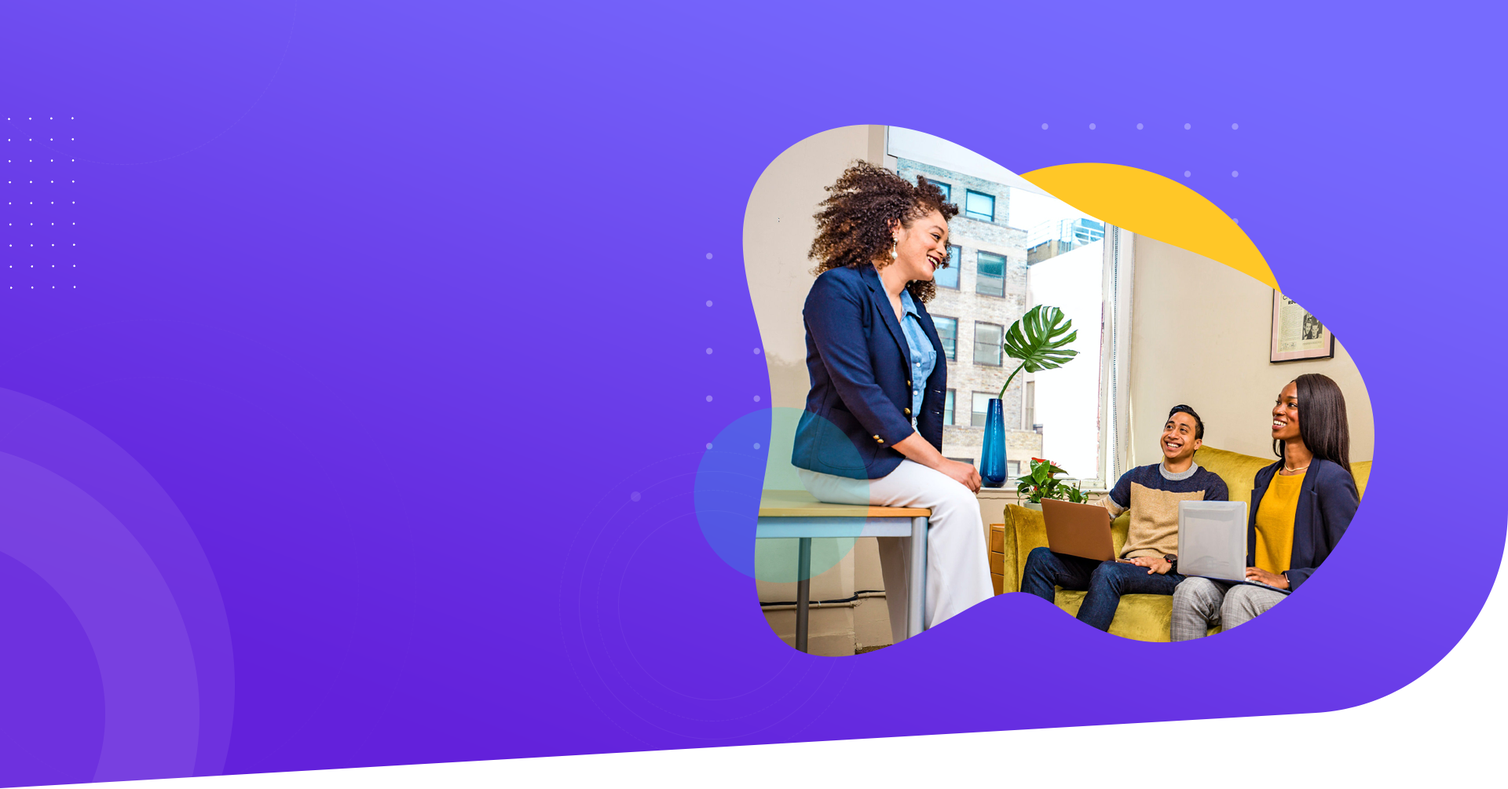
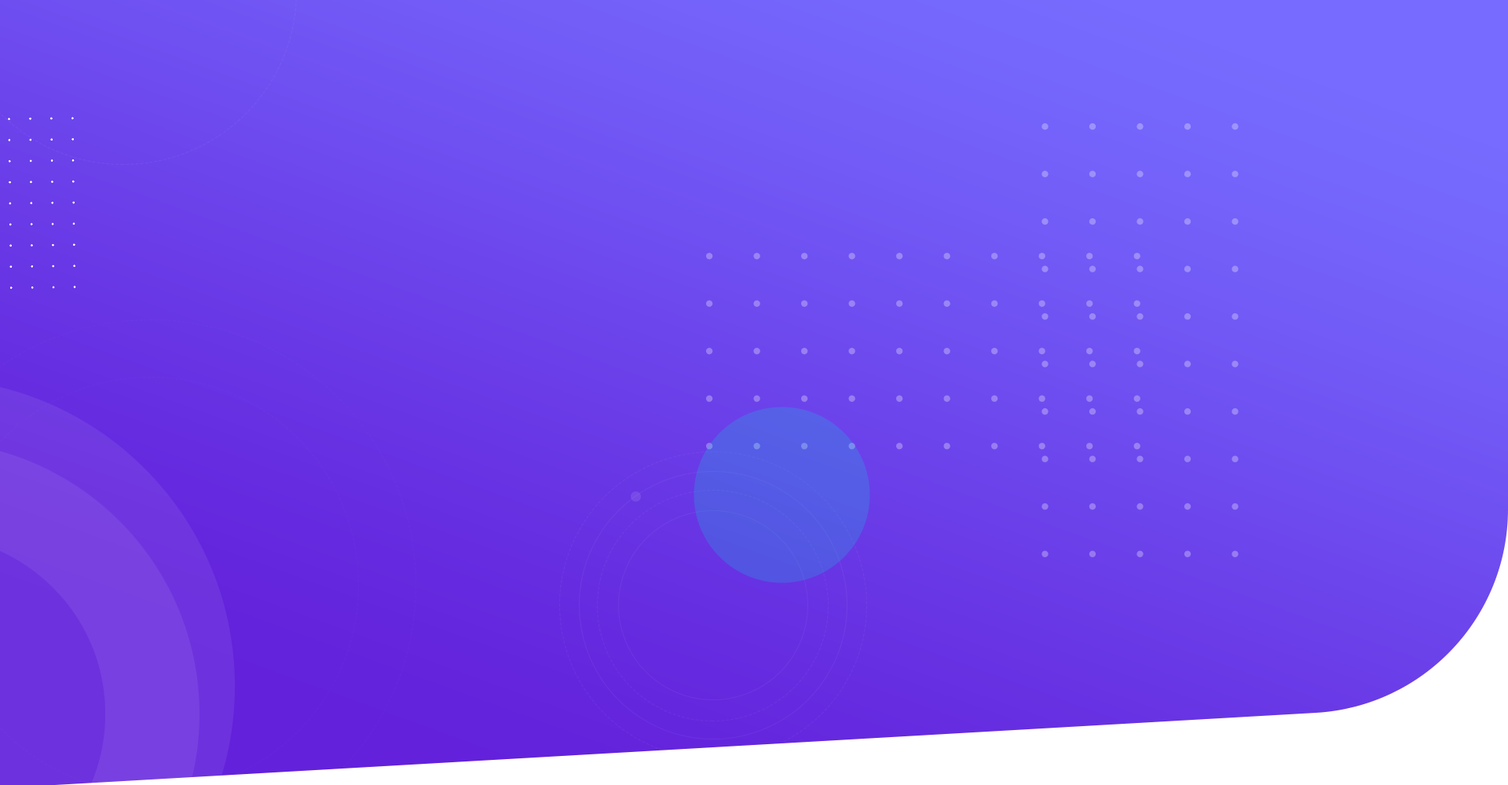
Added smal adaptive

diff --git a/css/style.min.css b/css/style.min.css
@@ -1,1 +1,1 @@
-@charset "UTF-8";*{padding:0;margin:0;border:0}*,:after,:before{-webkit-box-sizing:border-box;box-sizing:border-box}:active,:focus{outline:0}a:active,a:focus{outline:0}aside,footer,header,nav{display:block}body,html{height:100%;width:100%;font-size:100%;line-height:1;font-size:14px;-ms-text-size-adjust:100%;-moz-text-size-adjust:100%;-webkit-text-size-adjust:100%}button,input,textarea{font-family:inherit}input::-ms-clear{display:none}button{cursor:pointer}button::-moz-focus-inner{padding:0;border:0}a,a:visited{text-decoration:none}a:hover{text-decoration:none}ul li{list-style:none}img{vertical-align:top}h1,h2,h3,h4,h5,h6{font-size:inherit;font-weight:inherit}.wrapper-footer{width:1920px;height:-webkit-fit-content;height:-moz-fit-content;height:fit-content;margin:0 auto}.container-footer{display:inline-block;width:1445px;height:45px;margin:205px auto 0 237px}.navigation-footer{color:#fff;width:570px;display:-webkit-inline-box;display:-ms-inline-flexbox;display:inline-flex;-webkit-box-orient:horizontal;-webkit-box-direction:normal;-ms-flex-direction:row;flex-direction:row;-webkit-box-pack:center;-ms-flex-pack:center;justify-content:center;-webkit-box-align:center;-ms-flex-align:center;align-items:center;-webkit-box-pack:justify;-ms-flex-pack:justify;justify-content:space-between;margin-left:290px;font-family:Nexa;font-size:19px;font-weight:400}.icons{display:-webkit-inline-box;display:-ms-inline-flexbox;display:inline-flex;-webkit-box-orient:horizontal;-webkit-box-direction:normal;-ms-flex-direction:row;flex-direction:row;-webkit-box-pack:justify;-ms-flex-pack:justify;justify-content:space-between;width:200px;height:45px;margin-left:220px}.icons__icon:hover{background-color:#00dadc}.icons__icon{display:-webkit-box;display:-ms-flexbox;display:flex;-webkit-box-pack:center;-ms-flex-pack:center;justify-content:center;-webkit-box-align:center;-ms-flex-align:center;align-items:center;width:45px;height:45px;border-radius:50%;font-size:20px;color:#fff;text-align:center;background-color:#6f7ffe}.copyright{width:-webkit-fit-content;width:-moz-fit-content;width:fit-content;margin:85px auto 0 auto;color:#fff}.no-webp .footer{background-image:url(../img/footer/fone.png)}.footer{width:1920px;height:390px}.no-webp .head-wrapper{background-image:url(@img/header/Fone.png)}.head-wrapper{width:1920px;height:1000px;background-size:1920px;margin:0 auto}.cover-nav{width:1450px;margin:40px 0 0 235px;display:-webkit-inline-box;display:-ms-inline-flexbox;display:inline-flex;-webkit-box-orient:horizontal;-webkit-box-direction:normal;-ms-flex-direction:row;flex-direction:row}.main-head-block__logo{font-size:45px;font-family:Gilroy;font-weight:700;display:inline-block;color:#fff}.main-head-block__navigation{color:#fff;width:440px;display:-webkit-inline-box;display:-ms-inline-flexbox;display:inline-flex;-webkit-box-orient:horizontal;-webkit-box-direction:normal;-ms-flex-direction:row;flex-direction:row;-webkit-box-pack:center;-ms-flex-pack:center;justify-content:center;-webkit-box-align:center;-ms-flex-align:center;align-items:center;-webkit-box-pack:justify;-ms-flex-pack:justify;justify-content:space-between;margin-left:110px}.main-head-block__elements{font-family:Nexa;font-size:19px;font-weight:300}.main-head-block__contact{width:170px;height:65px;display:inline-block;background-color:#fff;color:#6426dd;border-radius:30vw;border:none;font-size:17px;font-weight:800;margin-left:auto}.second-main-block{width:1535px;height:380px;margin:74px auto 0 235px;display:-webkit-box;display:-ms-flexbox;display:flex;-webkit-box-orient:horizontal;-webkit-box-direction:normal;-ms-flex-direction:row;flex-direction:row;-webkit-box-pack:justify;-ms-flex-pack:justify;justify-content:space-between}.second-main-block__column{-webkit-box-flex:0;-ms-flex:0 1 50%;flex:0 1 50%;display:inline-block}.second-main-block__column img{width:100%;height:100%}.second-main-block__title{font-size:88px;line-height:80px;font-family:Nexa;font-weight:800;color:#fff;display:block;margin-top:175px}.second-main-block__subtitle{margin:30px 0 0 0;font-size:20px;line-height:36px;font-size:Nexa;font-weight:400;color:#939292;font-style:italic}.second-main-block__button:active{background-color:#00dadc;-webkit-transition:color ease .5s;-o-transition:color ease .5s;transition:color ease .5s}.second-main-block__button{width:275px;height:75px;border-radius:30vw;margin-top:50px;background-color:#ffc727;font-family:Nexa;font-size:18px;font-weight:700}.second-main-block__second img{width:100%;height:100%}@font-face{font-family:Gilroy;font-display:swap;src:url(../fonts/Gilroy-Bold.woff2) format("woff2"),url(../fonts/Gilroy-Bold.woff) format("woff");font-weight:700;font-style:normal}@font-face{font-family:Nexa;font-display:swap;src:url(../fonts/Nexa-Bold.woff2) format("woff2"),url(../fonts/Nexa-Bold.woff) format("woff");font-weight:700;font-style:normal}@font-face{font-family:Nexa;font-display:swap;src:url(../fonts/Nexa-Regular.woff2) format("woff2"),url(../fonts/Nexa-Regular.woff) format("woff");font-weight:400;font-style:normal}@font-face{font-family:Nexa;font-display:swap;src:url(../fonts/Nexa-XBold.woff2) format("woff2"),url(../fonts/Nexa-XBold.woff) format("woff");font-weight:400;font-style:normal}.main{height:2125px;width:1920px;margin:0 auto}.no-webp .main-first-wrapper{background-image:url(../img/main/Fone.png)}.main-first-wrapper{width:1920px;height:1025px}.main-first{width:1450px;height:1025px;display:-webkit-inline-box;display:-ms-inline-flexbox;display:inline-flex;margin:160px auto 0 160px}.main-first__img{width:700px;height:830px}.main-first__column:nth-child(even){width:590px}.main-first__column{width:844px}.about-two{margin:280px 0 0 0}.about{margin:150px 0 0 0}.about__preview{color:#6422db;font-family:Nexa;font-size:30px;font-weight:400;letter-spacing:10px;text-transform:uppercase}.about__title{margin:45px 0 0 0;font-family:Nexa;font-size:70px;font-weight:800;line-height:66px}.about__subtitle{margin:55px 0 0 0;font-family:Nexa;font-size:20px;font-weight:400;line-height:36px}.about__button:active{background-color:#00dadc;-webkit-transition:color ease .5s;-o-transition:color ease .5s;transition:color ease .5s}.about__button{width:280px;height:70px;border-radius:30vw;margin:55px 0 0 0;background-color:#ffc727;font-family:Nexa;font-size:18px;font-weight:700}.no-webp .main-second-wrapper{background-image:url(../img/main/Fone-two.png)}.main-second-wrapper{width:1920px;height:1100px;background-size:1920px 100%}.main-second{width:1430px;height:870px;display:-webkit-box;display:-ms-flexbox;display:flex;margin:0 0 0 250px}.main-second__column:nth-child(even){width:680px}.main-second__column{display:-webkit-box;display:-ms-flexbox;display:flex;width:760px}.main-second__flex{height:750px;width:300px;-webkit-box-flex:0;-ms-flex:0 0 50%;flex:0 0 50%;margin:230px 0 0 0}.main-second__flex_margin{margin:115px 0 0 0}.element:nth-child(odd){margin-bottom:40px}.element{width:300px;height:350px;background-color:#fff}.elem__icon{width:100px;height:90px;margin:30px 0 0 35px;display:inline-block}.elem__title{margin-top:45px;margin-left:35px;font-size:24px;font-weight:700}.elem__subtitle{margin-top:35px;margin-left:35px;font-size:18px;font-weight:400;line-height:32px}.round-yellow{width:215px;height:215px;position:absolute;left:0;top:-70px}.reviwes-wrapper{position:relative;height:2020px;width:1920px;margin:0 auto;background-color:#fcfcff}.no-webp .reviews{background-image:url(../img/main/rating/fone.png)}.reviews{width:1920px;height:1090px;margin:0 auto;text-align:center}.reviews__review{width:300px;font-family:Nexa;font-size:30px;letter-spacing:7px;font-weight:300;color:#bfbfbf;margin:145px auto 0 auto;display:inline-block}.reviews__title{width:575px;font-size:70px;font-weight:700;margin:15px auto 0 auto;color:#fff;letter-spacing:3px}.reviews__coma img{width:100%;height:100%}.reviews__coma{width:240px;height:180px;margin:20px auto 0 auto;display:inline-block;z-index:4}.reviews__subtitle{z-index:5;font-size:24px;font-weight:800;line-height:46px;position:relative;bottom:120px;font-family:Nexa}.reviews__cover{position:relative;width:735px;width:735px;height:440px;margin:0 auto 0 570px}.reviews__shadow-one{position:absolute;z-index:2;width:710px;height:470px;border-radius:20px;background-color:#895fe9;left:calc(50% - 355px)}.reviews__shadow-two{position:absolute;z-index:1;width:680px;height:490px;border-radius:20px;background-color:#8454e5;left:calc(50% - 340px);opacity:.5}.reviews__block{position:relative;width:735px;height:440px;background-color:#fff;border-radius:25px;margin:83px auto 0 auto;opacity:.98;z-index:5}.reviews__name-user{font-family:Nexa;font-weight:800;font-size:24px;color:#6427de;margin-top:-85px}.rating{font-size:35px;display:inline-block;position:relative;margin-top:3px}.rating__items{position:absolute;width:100;height:100%;top:0;left:0;display:-webkit-box;display:-ms-flexbox;display:flex;-webkit-box-orient:horizontal;-webkit-box-direction:reverse;-ms-flex-direction:row-reverse;flex-direction:row-reverse;overflow:hidden}.rating__item:checked,.rating__item:checked~.rating__lable{color:#fd0}.rating__item{position:absolute;width:0%;height:0%;opacity:0;visibility:hidden;top:0;left:0}.rating__lable{-webkit-box-flex:0;-ms-flex:0 0 20%;flex:0 0 20%;height:100%;cursor:pointer;color:#000}.rating__lable:checked~.rating__lable:hover,.rating__lable:hover,.rating__lable:hover~.rating__lable{color:#ff0}.rating__lable::before{content:"★";display:block;-webkit-transition:color .3s ease 0s;-o-transition:color .3s ease 0s;transition:color .3s ease 0s}.flex{width:130px;display:-webkit-box;display:-ms-flexbox;display:flex;-webkit-box-orient:horizontal;-webkit-box-direction:normal;-ms-flex-direction:row;flex-direction:row;-webkit-box-pack:justify;-ms-flex-pack:justify;justify-content:space-between;margin:40px auto 0 auto}.flex__arrow{display:-webkit-box;display:-ms-flexbox;display:flex;-webkit-box-orient:vertical;-webkit-box-direction:normal;-ms-flex-direction:column;flex-direction:column;-webkit-box-pack:center;-ms-flex-pack:center;justify-content:center;width:50px;height:50px;background-color:transparent;border-radius:50%;border:solid 3px #737287;font-size:18px;text-align:center}.flex__arrow:active{background-color:#00dadc;cursor:pointer;border:none}.flex__arrow:active .flex__arrow_font{color:#fff;cursor:pointer}.flex__arrow_font{color:#000}.flex__arrow:hover{cursor:pointer}.svg-arrow-left-dims{cursor:pointer}.rating::before{content:"★★★★★";display:block}.wrapper-contact{width:1920px;height:900px}.about-three{width:760px;margin-top:190px}.contact{position:relative;width:1340px;height:680px;margin:100px auto 0 auto;display:-webkit-box;display:-ms-flexbox;display:flex;-webkit-box-orient:horizontal;-webkit-box-direction:normal;-ms-flex-direction:row;flex-direction:row;-webkit-box-pack:justify;-ms-flex-pack:justify;justify-content:space-between}.round-blue{position:absolute;top:-140px;right:-128px;width:215px;height:215px;z-index:5}.fill-form{width:560px;height:690px;border-radius:20px;position:relative;display:-webkit-box;display:-ms-flexbox;display:flex;-webkit-box-orient:vertical;-webkit-box-direction:normal;-ms-flex-direction:column;flex-direction:column;background-color:#fff;-webkit-box-shadow:inset 0 0 0 0 #d1d1d1,0 10px 50px rgba(150,188,255,.1803921569);box-shadow:inset 0 0 0 0 #d1d1d1,0 10px 50px rgba(150,188,255,.1803921569)}.fill-form__name{width:490px;height:80px;border-radius:5px;border:1px solid #d1d1d1;color:#6422db;font-family:Nexa;font-size:20px;font-weight:700;letter-spacing:1px;margin:75px 0 0 35px;padding:40px}.fill-form__email{width:490px;height:80px;border-radius:5px;border:1px solid #d1d1d1;padding-left:40px;font-family:Nexa;font-size:20px;font-weight:700;letter-spacing:1px;margin:20px 0 0 35px}.fill-form__message{width:490px;height:200px;border-radius:5px;border:1px solid #d1d1d1;padding-left:40px;font-family:Nexa;font-size:20px;font-weight:700;letter-spacing:1px;margin:20px 0 0 35px}.fill-form__button{width:280px;height:70px;border-radius:30vw;margin:50px 0 0 45px;background-color:#ffc727;font-family:Nexa;font-size:18px;font-weight:700;text-transform:uppercase;cursor:pointer}.fill-form__lable{width:105px;height:-webkit-fit-content;height:-moz-fit-content;height:fit-content;background-color:#fff;position:absolute;top:65px;left:90px;color:#c1c1c1;font-family:Nexa;font-size:19px;text-align:center}::-webkit-input-placeholder{position:absolute;left:40px;top:30px;color:#c1c1c1}::-moz-placeholder{position:absolute;left:40px;top:30px;color:#c1c1c1}:-moz-placeholder{position:absolute;left:40px;top:30px;color:#c1c1c1}:-ms-input-placeholder{position:absolute;left:40px;top:30px;color:#c1c1c1}body{overflow-x:hidden}*{font-family:lato}.no-webp .head-wrapper{background-image:url(../img/header/Fone.png)}.head-wrapper{width:1920px;height:1000px;background-size:1920px;margin:0 auto}body{color:#000;font-size:14px}body._lock{overflow:hidden}.wrapper{width:100%;min-height:100%;overflow:hidden;display:-webkit-box;display:-ms-flexbox;display:flex;-webkit-box-orient:vertical;-webkit-box-direction:normal;-ms-flex-direction:column;flex-direction:column}._container{max-width:320pxpx;margin:0 auto}@media (max-width:991.98px){._container{max-width:750px}}@media (max-width:767.98px){._container{max-width:none;padding:0 10px}}@media (max-width:332px){._container{max-width:970px}}.webp .footer{background-image:url(../img/footer/fone.webp)}.webp .head-wrapper{background-image:url(@img/header/Fone.webp)}.webp .main-first-wrapper{background-image:url(../img/main/Fone.webp)}.webp .main-second-wrapper{background-image:url(../img/main/Fone-two.webp)}.webp .reviews{background-image:url(../img/main/rating/fone.webp)}.webp .head-wrapper{background-image:url(../img/header/Fone.webp)}
+@charset "UTF-8";body{width:100%;color:#000;font-size:14px}body._lock{overflow:hidden}.wrapper{width:100%;min-height:100%;overflow:hidden;display:-webkit-box;display:-ms-flexbox;display:flex;-webkit-box-orient:vertical;-webkit-box-direction:normal;-ms-flex-direction:column;flex-direction:column}._container{max-width:1920pxpx;margin:0 auto}*{padding:0;margin:0;border:0}*,:after,:before{-webkit-box-sizing:border-box;box-sizing:border-box}:active,:focus{outline:0}a:active,a:focus{outline:0}aside,footer,header,nav{display:block}body,html{height:100%;width:100%;font-size:100%;line-height:1;font-size:14px;-ms-text-size-adjust:100%;-moz-text-size-adjust:100%;-webkit-text-size-adjust:100%}button,input,textarea{font-family:inherit}input::-ms-clear{display:none}button{cursor:pointer}button::-moz-focus-inner{padding:0;border:0}a,a:visited{text-decoration:none}a:hover{text-decoration:none}ul li{list-style:none}img{vertical-align:top}h1,h2,h3,h4,h5,h6{font-size:inherit;font-weight:inherit}.wrapper-footer{width:1920px;height:-webkit-fit-content;height:-moz-fit-content;height:fit-content;margin:0 auto}.container-footer{display:inline-block;width:88.5416666667%;height:45px;margin:205px auto 0 12.5%}.navigation-footer{color:#fff;width:570px;display:-webkit-inline-box;display:-ms-inline-flexbox;display:inline-flex;-webkit-box-orient:horizontal;-webkit-box-direction:normal;-ms-flex-direction:row;flex-direction:row;-webkit-box-pack:center;-ms-flex-pack:center;justify-content:center;-webkit-box-align:center;-ms-flex-align:center;align-items:center;-webkit-box-pack:justify;-ms-flex-pack:justify;justify-content:space-between;margin-left:15.1041666667%;font-family:Nexa;font-size:19px;font-weight:400}.icons{display:-webkit-inline-box;display:-ms-inline-flexbox;display:inline-flex;-webkit-box-orient:horizontal;-webkit-box-direction:normal;-ms-flex-direction:row;flex-direction:row;-webkit-box-pack:justify;-ms-flex-pack:justify;justify-content:space-between;width:200px;height:45px;margin-left:12.5%}.icons__icon:hover{background-color:#00dadc}.icons__icon{display:-webkit-box;display:-ms-flexbox;display:flex;-webkit-box-pack:center;-ms-flex-pack:center;justify-content:center;-webkit-box-align:center;-ms-flex-align:center;align-items:center;width:45px;height:45px;border-radius:50%;font-size:20px;color:#fff;text-align:center;background-color:#6f7ffe}.copyright{width:-webkit-fit-content;width:-moz-fit-content;width:fit-content;margin:85px auto 0 auto;color:#fff}.no-webp .footer{background-image:url(../img/footer/fone.png)}.footer{max-width:1920px;height:390px}.head-wrapper{position:relative;width:1920px;height:1000px;top:-40px;margin:0 auto}.wrapper-background-img{width:1920px;height:1000px;position:absolute;top:0;left:0;z-index:1;margin:0 auto}.wrapper-background-img img{width:100%;height:100%}.main-head-block{position:relative;z-index:3;width:79.1666666667%;height:810px;margin:40px 0 0 12.5%}.main-head-block__logo{font-size:45px;font-family:Gilroy;font-weight:700;display:inline-block;color:#fff}.main-head-block__navigation{color:#fff;width:440px;display:-webkit-inline-box;display:-ms-inline-flexbox;display:inline-flex;-webkit-box-orient:horizontal;-webkit-box-direction:normal;-ms-flex-direction:row;flex-direction:row;-webkit-box-pack:center;-ms-flex-pack:center;justify-content:center;-webkit-box-align:center;-ms-flex-align:center;align-items:center;-webkit-box-pack:justify;-ms-flex-pack:justify;justify-content:space-between;margin-left:110px}.main-head-block__elements{font-family:Nexa;font-size:19px;font-weight:300}.main-head-block__contact:hover{cursor:pointer}.main-head-block__contact{width:170px;height:65px;display:inline-block;background-color:#fff;color:#6426dd;border-radius:30vw;border:none;font-size:17px;font-weight:800;margin-left:auto}.cover-nav{width:1450px;display:-webkit-inline-box;display:-ms-inline-flexbox;display:inline-flex;-webkit-box-orient:horizontal;-webkit-box-direction:normal;-ms-flex-direction:row;flex-direction:row;margin-top:40px}.second-main-block{margin:70px 0 0 100px;height:580px;display:-webkit-box;display:-ms-flexbox;display:flex;-webkit-box-orient:horizontal;-webkit-box-direction:normal;-ms-flex-direction:row;flex-direction:row;-webkit-box-pack:justify;-ms-flex-pack:justify;justify-content:space-between}.second-main-block__title{font-size:88px;line-height:80px;font-family:Nexa;font-weight:800;color:#fff;display:block}.second-main-block__subtitle{margin:30px 0 0 0;font-size:20px;line-height:36px;font-size:Nexa;font-weight:400;color:#939292;font-style:italic}.second-main-block__button:active{background-color:#00dadc;-webkit-transition:color ease .5s;-o-transition:color ease .5s;transition:color ease .5s}.second-main-block__button{width:275px;height:75px;border-radius:30vw;margin-top:50px;background-color:#ffc727;font-family:Nexa;font-size:18px;font-weight:700}.second-main-block__column{width:38.2585751979%;height:100%}.second-main-block__column-two img{width:100%;height:100%}.second-main-block__column-two{width:57.3878627968%;height:100%}@font-face{font-family:Gilroy;font-display:swap;src:url(../fonts/Gilroy-Bold.woff2) format("woff2"),url(../fonts/Gilroy-Bold.woff) format("woff");font-weight:700;font-style:normal}@font-face{font-family:Nexa;font-display:swap;src:url(../fonts/Nexa-Bold.woff2) format("woff2"),url(../fonts/Nexa-Bold.woff) format("woff");font-weight:700;font-style:normal}@font-face{font-family:Nexa;font-display:swap;src:url(../fonts/Nexa-Regular.woff2) format("woff2"),url(../fonts/Nexa-Regular.woff) format("woff");font-weight:400;font-style:normal}@font-face{font-family:Nexa;font-display:swap;src:url(../fonts/Nexa-XBold.woff2) format("woff2"),url(../fonts/Nexa-XBold.woff) format("woff");font-weight:400;font-style:normal}.main{height:2125px;max-width:1920px;margin:0 auto}.main-first-wrapper{max-width:1920px;height:1025px;margin-top:120px}.main-first{width:72.9166666667%;height:1025px;display:-webkit-inline-box;display:-ms-inline-flexbox;display:inline-flex;-webkit-box-pack:justify;-ms-flex-pack:justify;justify-content:space-between;margin:0 auto 0 160px;margin-left:8.3333333333%}.main-first__img{width:100%;height:100%}.main-first__column:nth-child(even){width:39.2857142857%}.main-first__column{width:680px;width:48.5714285714%}.about-two{margin:280px 0 0 0}.about{margin:150px 0 0 0}.about__preview{color:#6422db;font-family:Nexa;font-size:30px;font-weight:400;letter-spacing:10px;text-transform:uppercase}.about__title{margin:45px 0 0 0;font-family:Nexa;font-size:70px;font-weight:800;line-height:66px}.about__subtitle{margin:55px 0 0 0;font-family:Nexa;font-size:20px;font-weight:400;line-height:36px}.about__button:active{background-color:#00dadc;-webkit-transition:color ease .5s;-o-transition:color ease .5s;transition:color ease .5s}.about__button{width:280px;height:70px;border-radius:30vw;margin:55px 0 0 0;background-color:#ffc727;font-family:Nexa;font-size:18px;font-weight:700}.no-webp .main-second-wrapper{background-image:url(../img/main/Fone-two.png)}.main-second-wrapper{width:1920px;height:1100px;background-size:100% 100%;margin:0 auto}.main-second{width:74.4791666667%;height:870px;display:-webkit-box;display:-ms-flexbox;display:flex;margin:0 0 0 250px;margin-left:12.5%}.main-second__column:nth-child(even){width:46.4285714286%}.main-second__column{display:-webkit-box;display:-ms-flexbox;display:flex;-webkit-box-pack:justify;-ms-flex-pack:justify;justify-content:space-between;width:54.2857142857%}.main-second__flex{width:39.4736842105%;height:730px;margin:230px 0 0 0}.main-second__flex_margin{margin:115px 0 0 0}.element:nth-child(odd){margin-bottom:40px}.element{width:100%;height:350px;background-color:#fff}.elem__icon{width:100px;height:90px;margin:30px 0 0 35px;display:inline-block}.elem__title{width:-webkit-fit-content;width:-moz-fit-content;width:fit-content;margin:45px auto 0 20px;font-family:Nexa;font-size:24px;font-weight:700}.elem__subtitle{width:-webkit-fit-content;width:-moz-fit-content;width:fit-content;margin:45px auto 0 20px;padding:3px;font-family:Nexa;font-size:14px;font-weight:400;line-height:32px;text-align:left;font-size:calc(9px + (5 + 5 * .7) * ((100vw - 320px)/ 1920))}.round-yellow{width:215px;height:215px;position:absolute;left:0;top:-70px}.reviwes-wrapper{position:relative;height:2020px;max-width:1920px;margin:0 auto;background-color:#fcfcff;overflow:hidden}.no-webp .reviews{background-image:url(../img/main/rating/fone.png)}.reviews{max-width:1920px;height:1090px;margin:0 auto;text-align:center}.reviews__review{width:300px;font-family:Nexa;font-size:30px;letter-spacing:7px;font-weight:300;color:#bfbfbf;margin:145px auto 0 auto;display:inline-block}.reviews__title{width:575px;font-size:70px;font-weight:700;margin:15px auto 0 auto;color:#fff;letter-spacing:3px}.reviews__coma img{width:100%;height:100%}.reviews__coma{width:240px;height:180px;margin:20px auto 0 auto;display:inline-block;z-index:4}.reviews__subtitle{z-index:5;font-size:24px;font-weight:800;line-height:46px;position:relative;bottom:120px;font-family:Nexa}.reviews__cover{position:relative;width:735px;width:735px;height:440px;margin:0 auto 0 570px}.reviews__shadow-one{position:absolute;z-index:2;width:710px;height:470px;border-radius:20px;background-color:#895fe9;left:calc(50% - 355px)}.reviews__shadow-two{position:absolute;z-index:1;width:680px;height:490px;border-radius:20px;background-color:#8454e5;left:calc(50% - 340px);opacity:.5}.reviews__block{position:relative;width:735px;height:440px;background-color:#fff;border-radius:25px;margin:83px auto 0 auto;opacity:.98;z-index:5}.reviews__name-user{font-family:Nexa;font-weight:800;font-size:24px;color:#6427de;margin-top:-85px}.rating{font-size:35px;display:inline-block;position:relative;margin-top:3px}.rating__items{position:absolute;width:100;height:100%;top:0;left:0;display:-webkit-box;display:-ms-flexbox;display:flex;-webkit-box-orient:horizontal;-webkit-box-direction:reverse;-ms-flex-direction:row-reverse;flex-direction:row-reverse;overflow:hidden}.rating__item:checked,.rating__item:checked~.rating__lable{color:#fd0}.rating__item{position:absolute;width:0%;height:0%;opacity:0;visibility:hidden;top:0;left:0}.rating__lable{-webkit-box-flex:0;-ms-flex:0 0 20%;flex:0 0 20%;height:100%;cursor:pointer;color:#000}.rating__lable:checked~.rating__lable:hover,.rating__lable:hover,.rating__lable:hover~.rating__lable{color:#ff0}.rating__lable::before{content:"★";display:block;-webkit-transition:color .3s ease 0s;-o-transition:color .3s ease 0s;transition:color .3s ease 0s}.flex{width:130px;display:-webkit-box;display:-ms-flexbox;display:flex;-webkit-box-orient:horizontal;-webkit-box-direction:normal;-ms-flex-direction:row;flex-direction:row;-webkit-box-pack:justify;-ms-flex-pack:justify;justify-content:space-between;margin:40px auto 0 auto}.flex__arrow{display:-webkit-box;display:-ms-flexbox;display:flex;-webkit-box-orient:vertical;-webkit-box-direction:normal;-ms-flex-direction:column;flex-direction:column;-webkit-box-pack:center;-ms-flex-pack:center;justify-content:center;width:50px;height:50px;background-color:transparent;border-radius:50%;border:solid 3px #737287;font-size:18px;text-align:center}.flex__arrow:active{background-color:#00dadc;cursor:pointer;border:none}.flex__arrow:active .flex__arrow_font{color:#fff;cursor:pointer}.flex__arrow_font{color:#000}.flex__arrow:hover{cursor:pointer}.svg-arrow-left-dims{cursor:pointer}.rating::before{content:"★★★★★";display:block}.wrapper-contact{max-width:1920px;height:900px}.about-three{width:39.5833333333%;margin-top:190px}.contact{position:relative;width:69.7916666667%;height:680px;margin:100px auto 0 auto;display:-webkit-box;display:-ms-flexbox;display:flex;-webkit-box-orient:horizontal;-webkit-box-direction:normal;-ms-flex-direction:row;flex-direction:row;-webkit-box-pack:justify;-ms-flex-pack:justify;justify-content:space-between}.round-blue{position:absolute;top:-140px;right:-128px;width:215px;height:215px;z-index:5}.fill-form{width:29.1666666667%;height:690px;border-radius:20px;position:relative;display:-webkit-box;display:-ms-flexbox;display:flex;-webkit-box-orient:vertical;-webkit-box-direction:normal;-ms-flex-direction:column;flex-direction:column;background-color:#fff;-webkit-box-shadow:inset 0 0 0 0 #d1d1d1,0 10px 50px rgba(150,188,255,.1803921569);box-shadow:inset 0 0 0 0 #d1d1d1,0 10px 50px rgba(150,188,255,.1803921569)}.fill-form__name{width:490px;height:80px;border-radius:5px;border:1px solid #d1d1d1;color:#6422db;font-family:Nexa;font-size:20px;font-weight:700;letter-spacing:1px;margin:75px 0 0 35px;padding:40px}.fill-form__email{width:490px;height:80px;border-radius:5px;border:1px solid #d1d1d1;padding-left:40px;font-family:Nexa;font-size:20px;font-weight:700;letter-spacing:1px;margin:20px 0 0 35px}.fill-form__message{width:490px;height:200px;border-radius:5px;border:1px solid #d1d1d1;padding-left:40px;font-family:Nexa;font-size:20px;font-weight:700;letter-spacing:1px;margin:20px 0 0 35px}.fill-form__button{width:280px;height:70px;border-radius:30vw;margin:50px 0 0 45px;background-color:#ffc727;font-family:Nexa;font-size:18px;font-weight:700;text-transform:uppercase;cursor:pointer}.fill-form__lable{width:105px;height:-webkit-fit-content;height:-moz-fit-content;height:fit-content;background-color:#fff;position:absolute;top:65px;left:90px;color:#c1c1c1;font-family:Nexa;font-size:19px;text-align:center}::-webkit-input-placeholder{position:absolute;left:40px;top:30px;color:#c1c1c1}::-moz-placeholder{position:absolute;left:40px;top:30px;color:#c1c1c1}:-moz-placeholder{position:absolute;left:40px;top:30px;color:#c1c1c1}:-ms-input-placeholder{position:absolute;left:40px;top:30px;color:#c1c1c1}* a{color:#fff}@media (max-width:1932px){._container{max-width:970px}}@media (max-width:1536px){.wrapper-footer{width:1440px}.icons{margin-left:8.3333333333%}.footer{width:1440px}.head-wrapper{width:1440px;height:800px}.wrapper-background-img{width:1440px;height:800px}.cover-nav{width:97.9166666667%}.main-first-wrapper{width:1440px;height:1025px}.main-second-wrapper{width:1440px;height:1025px}.elem__subtitle{margin-left:20px;margin-top:10px;line-height:25px}.reviwes-wrapper{width:1440px}.contact{width:80%}.fill-form{width:50%}}@media (max-width:1440px){.wrapper-footer{width:1440px}.icons{margin-left:8.3333333333%}.head-wrapper{width:1440px;height:800px}.wrapper-background-img{width:1440px;height:800px}.cover-nav{width:75.5208333333%}.second-main-block{width:78.9583333333%}.main-first-wrapper{width:1440px;height:1025px}.main-second-wrapper{width:1440px}}@media (max-width:991.98px){._container{max-width:750px}}@media (max-width:767.98px){._container{max-width:500px;padding:0 10px}}@media (max-width:479.98px){._container{max-width:500px;padding:0 10px}.elem__title{margin-left:20px;margin-top:10px}}@media (max-width:320px){.navigation-footer{margin-left:2%}.main-head-block{margin:40px 0 0 8.5%}.reviews__cover{margin:0 0 0 32%}.about-three{margin-left:2%;width:50%}.contact{margin-left:2%;width:90%}.round-blue{right:50px}.fill-form{margin-left:2%;width:50%}}.webp .footer{background-image:url(../img/footer/fone.webp)}.webp .main-second-wrapper{background-image:url(../img/main/Fone-two.webp)}.webp .reviews{background-image:url(../img/main/rating/fone.webp)}

diff --git a/index.html b/index.html
@@ -2,25 +2,30 @@
 <html lang="en">
   <meta charset="UTF-8">
 <meta http-equiv="X-UA-Compatible" content="IE=edge">
+<!-- <meta name="viewport" content="width=1920"> -->
 <meta name="viewport" content="width=device-width, initial-scale=1.0, maximum-scale=1.0, user-scalabale=0">
-<link rel="stylesheet" href="css/style.min.css?_v=20230310233732">
-<link rel="stylesheet" href="../files/icons.css?_v=20230310233732">
+<!-- <meta name="viewport" content="width=1024"> -->
+ <!-- Стандарт -->
+<link rel="stylesheet" href="css/style.min.css?_v=20230312154911">
+<link rel="stylesheet" href="../files/icons.css?_v=20230312154911">
 <title>Home</title>
   <body>
     <header>
     <section class="head-wrapper">
+        <div class="wrapper-background-img">
+            <picture><source srcset="img/header/Fone.webp" type="image/webp"><img src="img/header/Fone.png" alt=""></picture>
+        </div>
 <div class="main-head-block">
     <div class="cover-nav">
         <div class="main-head-block__logo">agency</div>
         <nav class="main-head-block__navigation">
-            <div class="main-head-block__elements">Home</div>
-            <div class="main-head-block__elements">About us</div>
-            <div class="main-head-block__elements">Our Services</div>
-            <div class="main-head-block__elements">Support</div>
+            <a href="#"  class="main-head-block__elements">Home</a>
+            <a href="#" class="main-head-block__elements">About us</a>
+            <a href="#" class="main-head-block__elements">Our Services</a>
+            <a href="#" class="main-head-block__elements">Support</a>
         </nav>
         <button class="main-head-block__contact">CONTACT</button>
     </div>
-    <div class="main-head-block__buttom"></div>
     <div class="second-main-block">
         <div class="second-main-block__column">
             <div class="second-main-block__title">
@@ -36,8 +41,8 @@
                 LEARN MORE
             </button>
         </div>
-        <div class="second-main-block__second">
-            <div class="second-main-block__column">
+        <div class="second-main-block__column-two">
+            <picture><source srcset="img/header/people.webp" type="image/webp"><img src="img/header/people.png" alt=""></picture>
             </div>
         </div>
     </div>
@@ -151,7 +156,7 @@
       <div class="reviews__shadow-two"></div>
     <div class="reviews__block">
       <div class="reviews__coma">
-        <picture><source srcset="../img/main/rating/coma.webp" type="image/webp"><img src="../img/main/rating/coma.png" alt="" /></picture>
+        <picture><source srcset="img/main/rating/coma.webp" type="image/webp"><img src="img/main/rating/coma.png" alt="" /></picture>
       </div>
       <p class="reviews__subtitle">
         This is due to their excellent service, competitive <br />
@@ -251,12 +256,12 @@
         <div class="main-head-block__logo">
             agency
         </div>
-        <div class="navigation-footer">
-            <div class="main-head-block__elements">Home</div>
-            <div class="main-head-block__elements">About us</div>
-            <div class="main-head-block__elements">Our Services</div>
-            <div class="main-head-block__elements">Support</div>
-        </div>
+        <di class="navigation-footer">
+            <a href="#"  class="main-head-block__elements">Home</a>
+            <a href="#" class="main-head-block__elements">About us</a>
+            <a href="#" class="main-head-block__elements">Our Services</a>
+            <a href="#" class="main-head-block__elements">Support</a>
+        </di>
         <div class="icons">
             <div class="icons__icon">
                 <i class="fa-brands fa-facebook-f"></i>
@@ -278,7 +283,7 @@
 </div>
 </section>
       </footer>
-    <script src="js/app.min.js?_v=20230310233732"></script>
-    <script src="https://kit.fontawesome.com/43d5e754e8.js?_v=20230310233732" crossorigin="anonymous"></script>
+    <script src="js/app.min.js?_v=20230312154911"></script>
+    <script src="https://kit.fontawesome.com/43d5e754e8.js?_v=20230312154911" crossorigin="anonymous"></script>
   </body>
 </html>

diff --git a/img/stack/sprite.stack.html b/img/stack/sprite.stack.html
@@ -155,7 +155,7 @@ selector is used to show the very shape that is referenced by the fragment ident
 
         </section>
         <footer>
-            <p>Generated at Fri, 10 Mar 2023 21:37:29 GMT by <a href="https://github.com/svg-sprite/svg-sprite" target="_blank" rel="noopener noreferrer">svg-sprite</a>.</p>
+            <p>Generated at Sun, 12 Mar 2023 13:49:09 GMT by <a href="https://github.com/svg-sprite/svg-sprite" target="_blank" rel="noopener noreferrer">svg-sprite</a>.</p>
         </footer>
     </body>
 </html>
